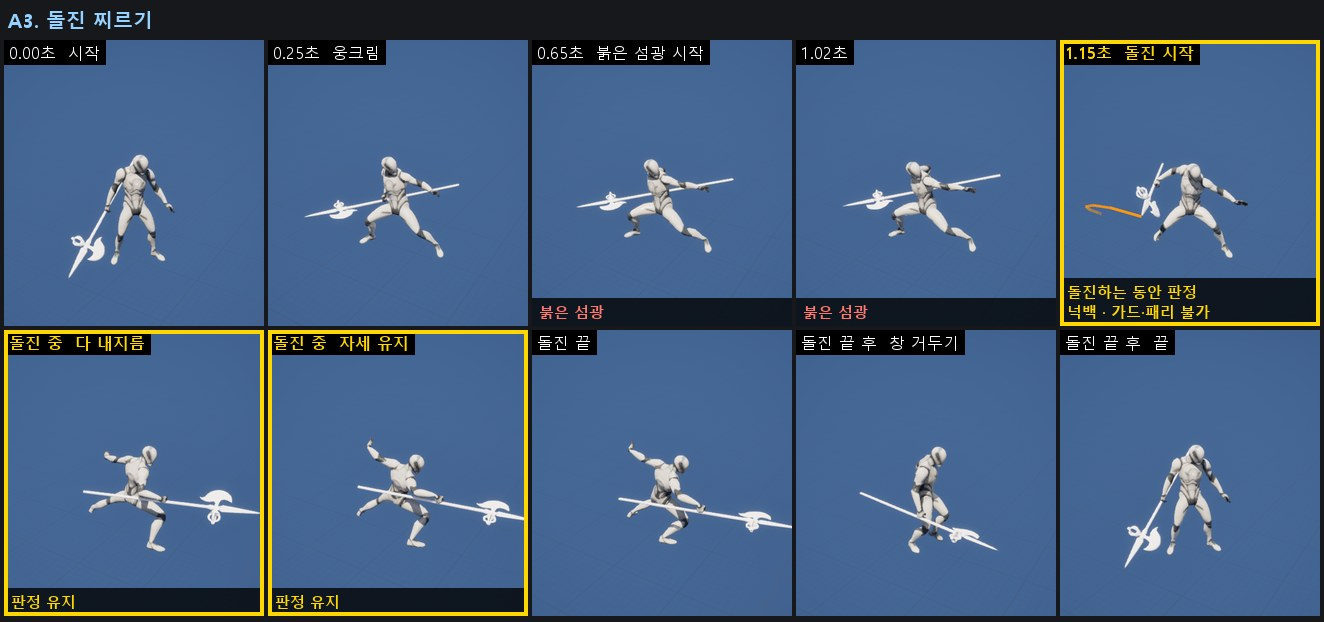
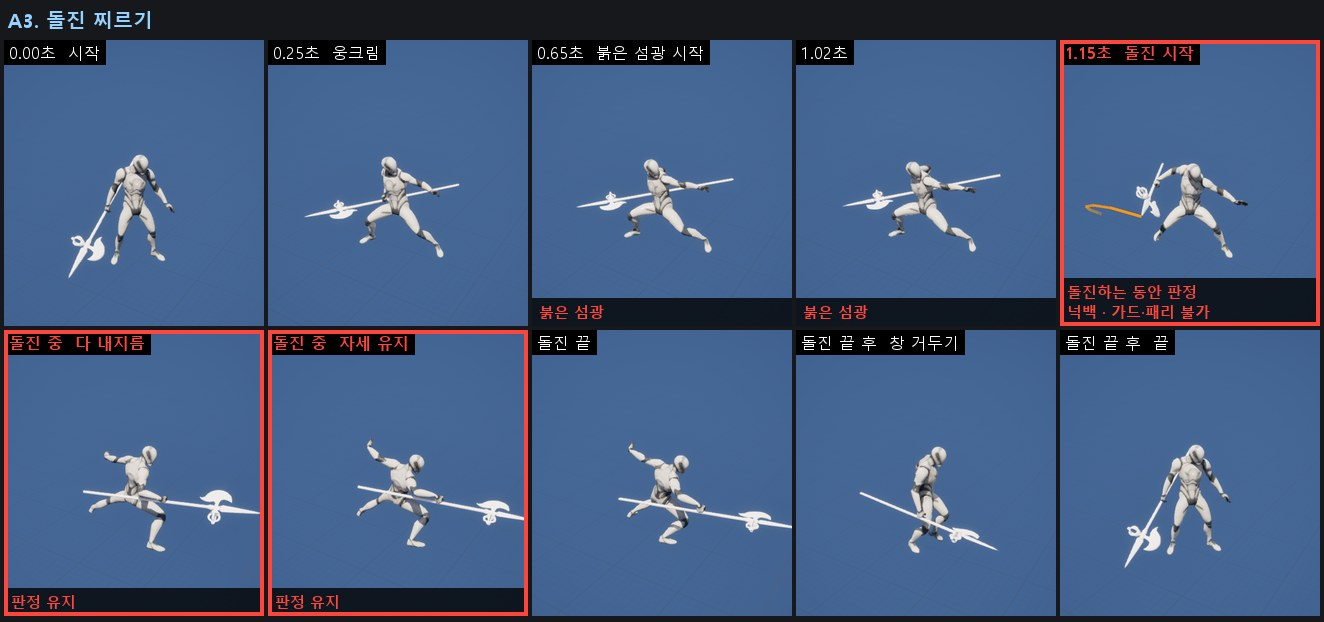
기획서 정리와 보스 모션 그림 색 변경
- 모든 문서에서 수정 이력 단락 제거
- AI 워크플로우의 책임·진행 순서·데이터·코드 규칙 수정
- 히트스톱 0.12초 통일, 대미지 정수 반올림, 처형 대미지 숫자 위치 추가
- 화면 효과 등 장식 연출을 구현 우선순위 B로 변경
- 보스 패턴 선택에서 연속 반복 금지 규칙 제거
- 숙이기, 카메라 위아래 회전 범위, 보스 아레나 용어 제거
- 보스 모션 A3·A5 그림의 가드 불가 타격 칸과 붉은 섬광을 빨간색으로 표시

diff --git a/Docs/AI 워크플로우.md b/Docs/AI 워크플로우.md
@@ -9,7 +9,7 @@
   - AI의 작업 결과물은 지시한 사람이 확인하고 책임집니다.
 - 기획자
   - 기획서를 명확하게 유지하고 최신화
-  - 수치 밸런싱
+  - 수치 밸런싱 방향 결정
   - 결과물이 기획 의도에 맞는지 판단
 - 프로그래머
   - 기획서대로 동작하도록 구현
@@ -20,22 +20,23 @@
 
 | # | 단계 | 담당자 | 사람이 할 일 | AI에게 맡기는 일 |
 | - | - | - | - | - |
-| 1 | 기획 | 기획자 | 방향과 수치를 정하고 기획서를 확정합니다. | 기획서 초안 작성, 용어·구현 우선순위·문서 간 충돌 점검 |
-| 2 | 구현 | 프로그래머 | 구현 설계를 승인하고 코드를 리뷰한 뒤, 빌드와 실행을 확인하고 푸시합니다. | 구현 계획서 작성, 코드와 에셋 작업 |
-| 3 | QA | 기획자 | 최신 버전을 받아 플레이하며 기획 의도에 맞는지 판단하고, 수치를 밸런싱합니다. | 제보 받은 버그 원인 파악 및 수정 |
+| 1 | 기획 | 기획자 | 방향을 정하고, AI가 제안한 데이터와 기획서를 검토해 확정합니다. | 기획서 초안 작성, 근거와 함께 데이터 제안, 용어·구현 우선순위·문서 간 충돌 점검 |
+| 2 | 구현 | 프로그래머 | 구현 설계를 승인하고, 코드를 리뷰하고, 결과를 확인합니다. | 구현 계획서 작성, 코드와 에셋 작업, 빌드와 실행 확인, 승인을 받은 뒤 push |
+| 3 | QA | 기획자 | 최신 버전을 받아 플레이하며 기획 의도에 맞는지 판단하고, 밸런싱 방향을 정합니다. | 제보 받은 버그 원인 파악 및 수정, 데이터 조정 |
 
 ## 협업 규칙
 
 - 기획서
   - 기획서에 적지 않은 기능은 만들지 않습니다.
-  - 기획서는 기획자만 고칩니다. 기획서에 대한 질문이 생기면 프로그래머는 기획자에게 묻고, 기획자는 답을 기획서에 반영한 뒤 수정 이력에 적고 프로그래머에게 알립니다.
-- 수치
-  - 기획서의 수치는 모두 플레이 테스트 전의 초기값이며, QA 단계에서 조정합니다. QA에서 조정한 수치는 QA가 끝날 때 기획자가 기획서에 반영합니다.
-  - 기획서의 수치는 코드에 직접 쓰지 않고, 기획자가 에디터에서 직접 조정할 수 있게 둡니다. 각 수치를 어디서 조정하는지는 구현 계획서의 수치 위치표에 정리합니다.
-  - 기획자는 에디터에서 수치만 조정하고, 에셋을 만들거나 교체하지 않습니다.
-- 코드와 에셋
-  - 코드 수정은 단계와 관계없이 프로그래머가 리뷰하고 푸시합니다.
-  - 코드는 에셋을 직접 가리키지 않고, 에디터에서 지정한 에셋을 씁니다.
+  - 기획서에 대한 질문이 생기면 프로그래머는 기획자에게 묻고, 기획자는 답을 기획서에 반영한 뒤 프로그래머에게 알립니다.
+- 데이터
+  - 데이터는 기획서에 적은 수치와 설정(피격 반응, 가드·패리 가능 여부, 패턴 속성 등), 그리고 쓰는 에셋(모션, 이펙트 등)을 말합니다.
+  - 기획서의 데이터는 모두 플레이 테스트 전의 초기값이며, QA 단계에서 조정될 수 있습니다. 데이터를 바꾸면 기획서도 함께 고칩니다.
+  - 각 데이터가 어느 에셋에 들어 있는지는 구현 계획서의 데이터 위치표에 정리합니다.
+  - 데이터 조정과 에셋 작업은 AI가 하고, 사람은 결과를 플레이해 판단합니다.
+- 코드
+  - 코드는 데이터를 하드코딩하지 않고 에셋에서 읽어 씁니다.
+  - 코드 수정은 프로그래머가 리뷰하고 승인한 뒤 push합니다.
 
 ## 문서 위치
 
@@ -55,14 +56,3 @@
   - 결정한 내용은 저장소의 문서에 적습니다. 개인 AI의 메모리나 대화는 출처가 될 수 없습니다.
 - 기획서에는 플레이해서 확인할 수 있는 것(규칙, 수치, 화면 배치)을 적습니다. 플레이로 구분할 수 없는 것(코드 구조, 에셋 구성, 엔진 기능 선택)은 구현 계획서에서 정합니다.
 - 기획서에는 현재 마일스톤의 내용만 적습니다. 다음 마일스톤에 대한 언급이나 '나중에 검토' 같은 문구는 쓰지 않습니다.
-- 문서 수정 이력은 문서를 처음 push한 뒤부터 적습니다. 그 전에는 '최초 작성' 한 줄만 둡니다.
-
----
-
-<details>
-<summary>문서 수정 이력</summary>
-
-| 날짜 | 변경 내용 |
-| - | - |
-| 2026.10.09 | 최초 작성 |
-</details>

diff --git a/Docs/Design/보스 사양.md b/Docs/Design/보스 사양.md
@@ -77,9 +77,8 @@ LV_BossStage에 등장하는 보스의 스탯, 공격 패턴, AI 행동 규칙, 
 ### 패턴 선택
 
 1. 현재 거리 구간에서 사용할 수 있고, 쿨다운이 끝났으며, 현재 페이즈에서 사용 가능한 패턴을 후보로 모읍니다.
-2. 직전에 사용한 패턴은 후보에서 제외합니다. 단, 남는 후보가 없으면 제외하지 않습니다.
-3. 후보 중 가중치('거리 구간별 가중치' 참고)에 따라 무작위로 하나를 선택합니다.
-4. 후보가 없으면 플레이어에게 걸어서 다가가며, 0.5초마다 다시 선택을 시도합니다. 근거리에는 쿨다운이 없는 A1이 항상 후보로 남으므로, 후보가 없는 경우는 중거리와 원거리에서만 생깁니다.
+2. 후보 중 가중치('거리 구간별 가중치' 참고)에 따라 무작위로 하나를 선택합니다.
+3. 후보가 없으면 플레이어에게 걸어서 다가가며, 0.5초마다 다시 선택을 시도합니다. 근거리에는 쿨다운이 없는 A1이 항상 후보로 남으므로, 후보가 없는 경우는 중거리와 원거리에서만 생깁니다.
 
 ### 패턴 후딜레이
 
@@ -112,7 +111,7 @@ LV_BossStage에 등장하는 보스의 스탯, 공격 패턴, AI 행동 규칙, 
 | 중거리 | A3 돌진 찌르기 (40), A4 도약 내려찍기 (40), A6 검기 발사 (20) |
 | 원거리 | A3 돌진 찌르기 (60), A4 도약 내려찍기 (40), A6 검기 발사 (60) |
 
-- 거리 구간의 범위는 '거리 구간'을, 후보에서 빠지는 조건(페이즈, 쿨다운, 직전 패턴)은 '패턴 선택'을 따릅니다. 예를 들어 1페이즈 근거리에서는 2페이즈 전용인 A5가 빠지므로 A1과 A2의 가중치만 비교합니다.
+- 거리 구간의 범위는 '거리 구간'을, 후보에서 빠지는 조건(페이즈, 쿨다운)은 '패턴 선택'을 따릅니다. 예를 들어 1페이즈 근거리에서는 2페이즈 전용인 A5가 빠지므로 A1과 A2의 가중치만 비교합니다.
 
 ## 패턴 상세
 
@@ -121,6 +120,7 @@ LV_BossStage에 등장하는 보스의 스탯, 공격 패턴, AI 행동 규칙, 
 이 문서의 모션 그림은 모션의 주요 프레임을 순서대로 보여 줍니다.
 
 - 테두리가 있는 칸은 타격 순간입니다. A6은 검기를 발사하는 순간입니다.
+- 가드 불가 공격의 타격 칸은 테두리와 글자 색을 달리해 구분합니다.
 - 그림 속 시간은 참고 값입니다. 공격 패턴(A1 ~ A6)은 1페이즈 재생 속도로 잰 시간입니다.
 - A3 돌진과 A4 도약의 이동은 모션 밖에서 주므로 그림에 나타나지 않습니다.
 - 할버드 위치는 [할버드 애니메이션 조사](<../Art/할버드 애니메이션 조사.md>)의 추정값입니다.
@@ -355,13 +355,3 @@ Root
 | - | - |
 | 패턴 실행 (A1 ~ A6) | 1페이즈 1.0 ~ 2.0초, 2페이즈 0.5 ~ 1.2초 중 무작위 |
 | 레벨 시작, 페이즈 전환, 그로기 유지, 처형 피격 | 1.0초 |
-
----
-
-<details>
-<summary>문서 수정 이력</summary>
-
-| 날짜 | 변경 내용 |
-| - | - |
-| 2026.10.08 | 최초 작성 |
-</details>

diff --git a/Docs/Design/플레이어 사양.md b/Docs/Design/플레이어 사양.md
@@ -89,10 +89,8 @@
 | 궁극기 | R | |
 | 처형 | F | |
 | 락온 / 락온 해제 | 마우스 휠 클릭 | |
-| ~~숙이기~~ | ~~C (토글)~~ | |
 
 - 각 행동의 구현 우선순위는 그 행동을 정의한 항목을 따릅니다. 시야는 [카메라](<카메라.md>)의 자유 시점을 따릅니다.
-- 취소선을 그은 키는 마일스톤1에서 구현하지 않는 기능입니다. 이 키는 다른 행동에 할당하지 않고 비워 둡니다.
 
 ## 이동
 
@@ -257,7 +255,7 @@
 - 대미지와 SP 소모가 없습니다.
 - 공격자의 PP를 공격자 MaxPP의 8%만큼 감소시킵니다.
 - MP와 UP를 충전합니다. ('MP 충전', 'UP 충전' 참고)
-- 0.12초 히트스톱을 적용하고(적용 대상은 [전투 시스템](<전투 시스템.md>)의 히트스톱을 따릅니다), 패리 전용 이펙트를 재생합니다.
+- 히트스톱을 적용하고([전투 시스템](<전투 시스템.md>)의 히트스톱을 따릅니다), 패리 전용 이펙트(🟢 B)를 재생합니다.
 - 슬로우모션이 발동합니다. (슬로우모션 항목 참고)
 - 패리 모션을 재생한 뒤, 가드 키를 누르고 있으면 가드 상태로, 떼었으면 대기 상태로 돌아갑니다. 패리 모션 중의 입력은 '행동 가능 표'를 따릅니다.
 - 패리 모션 중에 공격을 받으면, 가드 키를 누르고 있을 때는 가드로 막고, 떼었을 때는 일반 피격으로 처리합니다.
@@ -354,7 +352,7 @@ R 키로 사용하는, UP를 모두 소모하는 강력한 공격입니다.
 
 - 플레이어에게는 슈퍼아머가 없어 넉백, 다운을 모두 받습니다. 무적이 적용되는 구간은 각 행동 항목(회피, 회피 반격, 궁극기, 처형)을 따릅니다.
 - 피격 반응별 피격 모션은 [전투 시스템](<전투 시스템.md>)을 따릅니다. 공중에서 넉백, 다운에 맞으면 해당 피격 모션을 재생하며 떨어집니다. 움찔은 점프를 끊지 않습니다.
-- 피격 시 피격 이펙트와 카메라 셰이크([카메라](<카메라.md>) 참고)를 재생합니다.
+- 피격 시 피격 이펙트([전투 시스템](<전투 시스템.md>) 참고)와 카메라 셰이크([카메라](<카메라.md>) 참고)를 재생합니다.
 
 ![넉백과 다운 모션](<Attachments/플레이어 모션 피격.jpg>)
 
@@ -398,13 +396,3 @@ R 키로 사용하는, UP를 모두 소모하는 강력한 공격입니다.
 - 가드 키를 누르고 있는 채로 행동이 끝날 때의 처리는 '가드'를, 패리 구간이 생기는지는 '패리'를 따릅니다.
 - 움찔과 가드 움찔은 행동을 끊지 않으므로, 맞기 전 상태의 규칙을 그대로 따릅니다.
 - 락온 키는 사망 전까지 상태와 관계없이 언제든 입력할 수 있습니다.
-
----
-
-<details>
-<summary>문서 수정 이력</summary>
-
-| 날짜 | 변경 내용 |
-| - | - |
-| 2026.10.08 | 최초 작성 |
-</details>

diff --git a/Docs/Design/전투 HUD.md b/Docs/Design/전투 HUD.md
@@ -24,7 +24,7 @@
 | 3 | 보스 상태 | 화면 위쪽 가운데 | 🔴 S |
 | 4 | 락온 마커 | 보스 몸의 락온 지점 | 🔴 S |
 | 5 | 처형 안내 | 보스 머리 위 | 처형을 따름 |
-| 6 | 화면 효과 | 화면 전체 (그림에 표시하지 않음) | 🔴 S |
+| 6 | 화면 효과 | 화면 전체 (그림에 표시하지 않음) | 🟢 B |
 | 7 | 대미지 숫자 | 보스의 피격 위치 | 🔴 S |
 
 ## HUD 요소
@@ -87,7 +87,7 @@
 
 ### 7. 대미지 숫자
 
-- 플레이어가 보스에게 준 HP 감소량을 피격 위치에 정수로 표시합니다. 소수점 아래는 반올림합니다.
+- 플레이어가 보스에게 준 HP 감소량을, 공격 판정이 보스에게 닿은 위치에 정수로 표시합니다. 처형은 보스의 캡슐 중심에 표시합니다.
 - 대미지 숫자는 전용 글자입니다. 스킬·궁극기·처형은 Size 36, 그 밖에는 Size 24로 표시합니다.
 - 0.8초 동안 일정한 속도로 0.5m 떠오르면서 점점 투명해져 사라집니다. 같은 자리에 연달아 나와 겹쳐도 따로 흩지 않습니다.
 - 플레이어가 받은 대미지는 숫자로 표시하지 않습니다.
@@ -102,13 +102,3 @@
 | 결과 UI | 숨김 | 숨김 | 숨김 |
 
 - 대미지 숫자와 화면 효과는 이 표와 관계없이, 나타난 것은 끝까지 재생합니다. 마지막 일격의 대미지 숫자도 표시합니다.
-
----
-
-<details>
-<summary>문서 수정 이력</summary>
-
-| 날짜 | 변경 내용 |
-| - | - |
-| 2026.10.08 | 최초 작성 |
-</details>

diff --git a/Docs/Design/카메라.md b/Docs/Design/카메라.md
@@ -35,7 +35,6 @@ flowchart LR
 | 회전 중심 | 캐릭터 캡슐 중심에서 위로 60cm |
 | 화면 속 캐릭터 위치 | 화면 가로 가운데 (어깨 너머 시점이 아님) |
 | 시야각 (FOV) | 90° |
-| 위아래 회전 범위 | 아래로 60°, 위로 40°까지 |
 | 위치 추적 | 캐릭터를 약간 늦게 따라가 이동 중의 화면 떨림을 줄입니다. (따라잡는 시간 약 0.1초) |
 | 회전 반응 | 마우스 입력을 지연 없이 바로 반영합니다. |
 
@@ -95,13 +94,3 @@ flowchart LR
 
 - 궁극기의 마지막 일격은 '플레이어의 공격 적중' 대신, 가드 브레이크는 '가드로 막음' 대신 적용합니다.
 - 그 밖에 여러 셰이크가 동시에 발생하면 엔진 기본 동작대로 겹쳐서 재생합니다.
-
----
-
-<details>
-<summary>문서 수정 이력</summary>
-
-| 날짜 | 변경 내용 |
-| - | - |
-| 2026.10.09 | 최초 작성 |
-</details>

diff --git a/Docs/Design/게임 개요.md b/Docs/Design/게임 개요.md
@@ -10,12 +10,12 @@
 | - | - |
 | 제목 | AG (가제) |
 | 장르 | 3인칭 액션 RPG |
-| 플레이 인원 | 1인 (멀티플레이 미지원) |
+| 플레이 인원 | 1인, 멀티플레이 미지원 |
 | 개발 기반 | Unreal Engine 5.8 |
 
 ## 컨셉
 
-강한 보스 한 명과 1:1로 겨루는 싱글플레이 액션 RPG입니다. 승패는 플레이어의 눈과 손에서 갈립니다.
+강한 보스 한 명과 1:1로 겨루는 싱글플레이 액션 RPG입니다.
 
 ### 핵심 재미
 
@@ -62,13 +62,3 @@
 | [카메라](<카메라.md>) | 자유 시점, 락온 카메라, 카메라 셰이크 |
 | [전투 HUD](<전투 HUD.md>) | 전투 중 화면에 표시하는 정보 |
 | [UI 스타일](<UI 스타일.md>) | UI 기준 해상도, 글자, 버튼 스타일 |
-
----
-
-<details>
-<summary>문서 수정 이력</summary>
-
-| 날짜 | 변경 내용 |
-| - | - |
-| 2026.10.09 | 최초 작성 |
-</details>

diff --git a/Docs/Art/Samurai 애니메이션 조사.md b/Docs/Art/Samurai 애니메이션 조사.md
@@ -195,13 +195,3 @@
 | 기본 이동 / 달리기 / 가드 중 이동 | `Run_*` / `Sprint` / `Guard_Walk_*` (`_IPC`) | |
 | 움찔 / 넉백 / 다운 | `Hit14` / `Hit3` / `Death` → `Getup2_Idle1` | 움찔은 하던 동작 위에 덧입히므로 제자리에서 짧게 움찔하는 `Hit14`를 씁니다. `Hit3`은 대기 자세에서 시작해 0.82초 동안 뒤로 1.0m 밀려납니다. 다운은 뒤로 쓰러지는 `Death`에 기상을 잇습니다. `Hit_knockdown` 계열은 공중 자세에서 시작해 쓰지 않습니다. |
 | 사망 | 없음 | 래그돌로 쓰러집니다. ([전투 시스템](<../Design/전투 시스템.md>)의 사망 처리) |
-
----
-
-<details>
-<summary>문서 수정 이력</summary>
-
-| 날짜 | 변경 내용 |
-| - | - |
-| 2026.10.09 | 최초 작성 |
-</details>

diff --git a/Docs/Design/용어집.md b/Docs/Design/용어집.md
@@ -104,7 +104,6 @@
 | LV_FrontEnd | LV_FrontEnd | 게임을 실행하면 처음 열리는 타이틀 레벨 |
 | LV_BossStage | LV_BossStage | 보스전이 진행되는 레벨 |
 | Lvl_Combat | Lvl_Combat | LV_BossStage의 바탕이 되는 엔진 제공 샘플 레벨 |
-| 보스 아레나 | Boss Arena | 보스전이 진행되는 구역 |
 
 ## 카메라
 
@@ -135,13 +134,3 @@
 | Game Over UI | - | 플레이어가 사망하면 출력되는 결과 UI 창 |
 | 결과 UI | Result UI | Stage Clear UI와 Game Over UI를 함께 이르는 말 |
 | 화면 UI | Screen UI | 타이틀 화면, 결과 UI처럼 전투 밖에서 표시하는 화면 |
-
----
-
-<details>
-<summary>문서 수정 이력</summary>
-
-| 날짜 | 변경 내용 |
-| - | - |
-| 2026.10.09 | 최초 작성 |
-</details>

diff --git a/Docs/Design/보스 스테이지.md b/Docs/Design/보스 스테이지.md
@@ -53,13 +53,3 @@
 | G | 아레나 입구 | 보이지 않는 벽으로 막습니다. |
 | C | 아레나 중심 | 플레이어 시작 지점이자 보스 시작 위치(B)를 정하는 기준점입니다. |
 | B | 보스 시작 위치 | 중심에서 입구 반대편으로 8m. 플레이어를 바라봅니다. |
-
----
-
-<details>
-<summary>문서 수정 이력</summary>
-
-| 날짜 | 변경 내용 |
-| - | - |
-| 2026.10.08 | 최초 작성 |
-</details>

diff --git a/Docs/Design/UI 스타일.md b/Docs/Design/UI 스타일.md
@@ -53,13 +53,3 @@
 
 - 선택된 버튼은 선택되지 않은 버튼보다 밝은 배경, 굵은 테두리, 굵은 글자로 구분합니다.
 - 버튼의 크기와 모양은 각 화면의 그림을 따릅니다.
-
----
-
-<details>
-<summary>문서 수정 이력</summary>
-
-| 날짜 | 변경 내용 |
-| - | - |
-| 2026.10.09 | 최초 작성 |
-</details>
